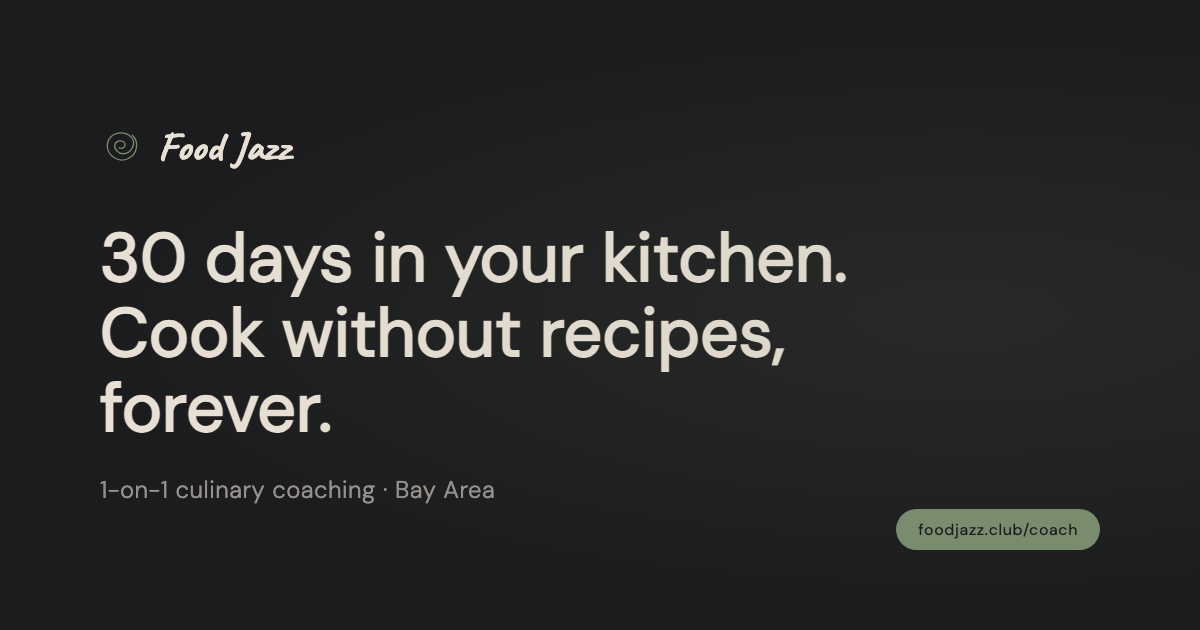
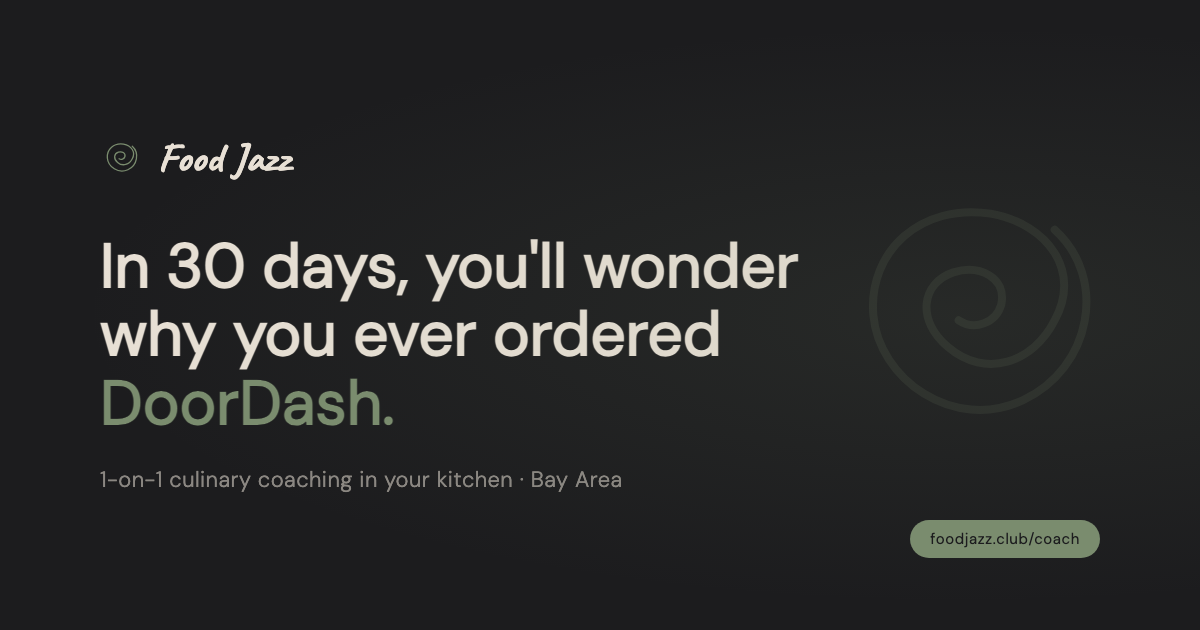
OG image: conversion copy + decorative spiral + DoorDash accent

diff --git a/og-image.html b/og-image.html
@@ -68,42 +68,58 @@
 
     .headline {
       font-family: 'DM Sans', Arial, sans-serif;
-      font-size: 68px;
+      font-size: 62px;
       font-weight: 700;
       color: #E8E0D5;
       line-height: 1.1;
-      max-width: 820px;
+      max-width: 830px;
       margin-bottom: 28px;
     }
 
+    .headline .accent { color: #7A8C6E; }
+
     .tagline {
       font-family: 'DM Sans', sans-serif;
-      font-size: 24px;
+      font-size: 22px;
       font-weight: 300;
-      color: rgba(232, 224, 213, 0.6);
+      color: rgba(232, 224, 213, 0.55);
       letter-spacing: 0.02em;
     }
 
     .badge {
       position: absolute;
       right: 100px;
-      bottom: 80px;
+      bottom: 72px;
       background: #7A8C6E;
       color: #1C1C1E;
       font-family: 'DM Sans', sans-serif;
-      font-size: 16px;
+      font-size: 15px;
       font-weight: 400;
-      padding: 10px 22px;
+      padding: 9px 20px;
       border-radius: 100px;
       letter-spacing: 0.04em;
+    }
+
+    .deco-spiral {
+      position: absolute;
+      right: 60px;
+      top: 50%;
+      transform: translateY(-50%);
+      width: 320px;
+      height: 320px;
+      opacity: 0.13;
+      pointer-events: none;
     }
   </style>
 </head>
 <body>
   <div class="card">
+    <!-- Background decorative spiral -->
+    <svg class="deco-spiral" viewBox="-10 -10 120 120" fill="none" xmlns="http://www.w3.org/2000/svg">
+      <path d="M 78,18 C 98,36 92,70 66,82 C 40,94 12,74 10,50 C 8,26 28,8 54,12 C 76,16 88,34 78,52 C 70,68 52,74 38,62 C 26,52 28,38 40,34 C 50,31 60,36 58,46 C 56,53 48,56 42,52" stroke="#7A8C6E" stroke-width="3" stroke-linecap="round" stroke-linejoin="round"/>
+    </svg>
+
     <div class="logo-row">
-      <!-- viewBox expanded to -10 -10 120 120 adds 10-unit buffer on all sides,
-           keeping the spiral well clear of the SVG edge and the "Food Jazz" text -->
       <div class="logo-svg-wrap">
         <svg class="logo-svg" viewBox="-10 -10 120 120" fill="none" xmlns="http://www.w3.org/2000/svg">
           <path d="M 78,18 C 98,36 92,70 66,82 C 40,94 12,74 10,50 C 8,26 28,8 54,12 C 76,16 88,34 78,52 C 70,68 52,74 38,62 C 26,52 28,38 40,34 C 50,31 60,36 58,46 C 56,53 48,56 42,52" stroke="#7A8C6E" stroke-width="3.5" stroke-linecap="round" stroke-linejoin="round"/>
@@ -112,8 +128,8 @@
       <span class="logo-name">Food Jazz</span>
     </div>
 
-    <h1 class="headline">30 days in your kitchen.<br>Cook without recipes, forever.</h1>
-    <p class="tagline">1-on-1 culinary coaching · Bay Area</p>
+    <h1 class="headline">In 30 days, you'll wonder<br>why you ever ordered <span class="accent">DoorDash.</span></h1>
+    <p class="tagline">1-on-1 culinary coaching in your kitchen · Bay Area</p>
 
     <span class="badge">foodjazz.club/coach</span>
   </div>
